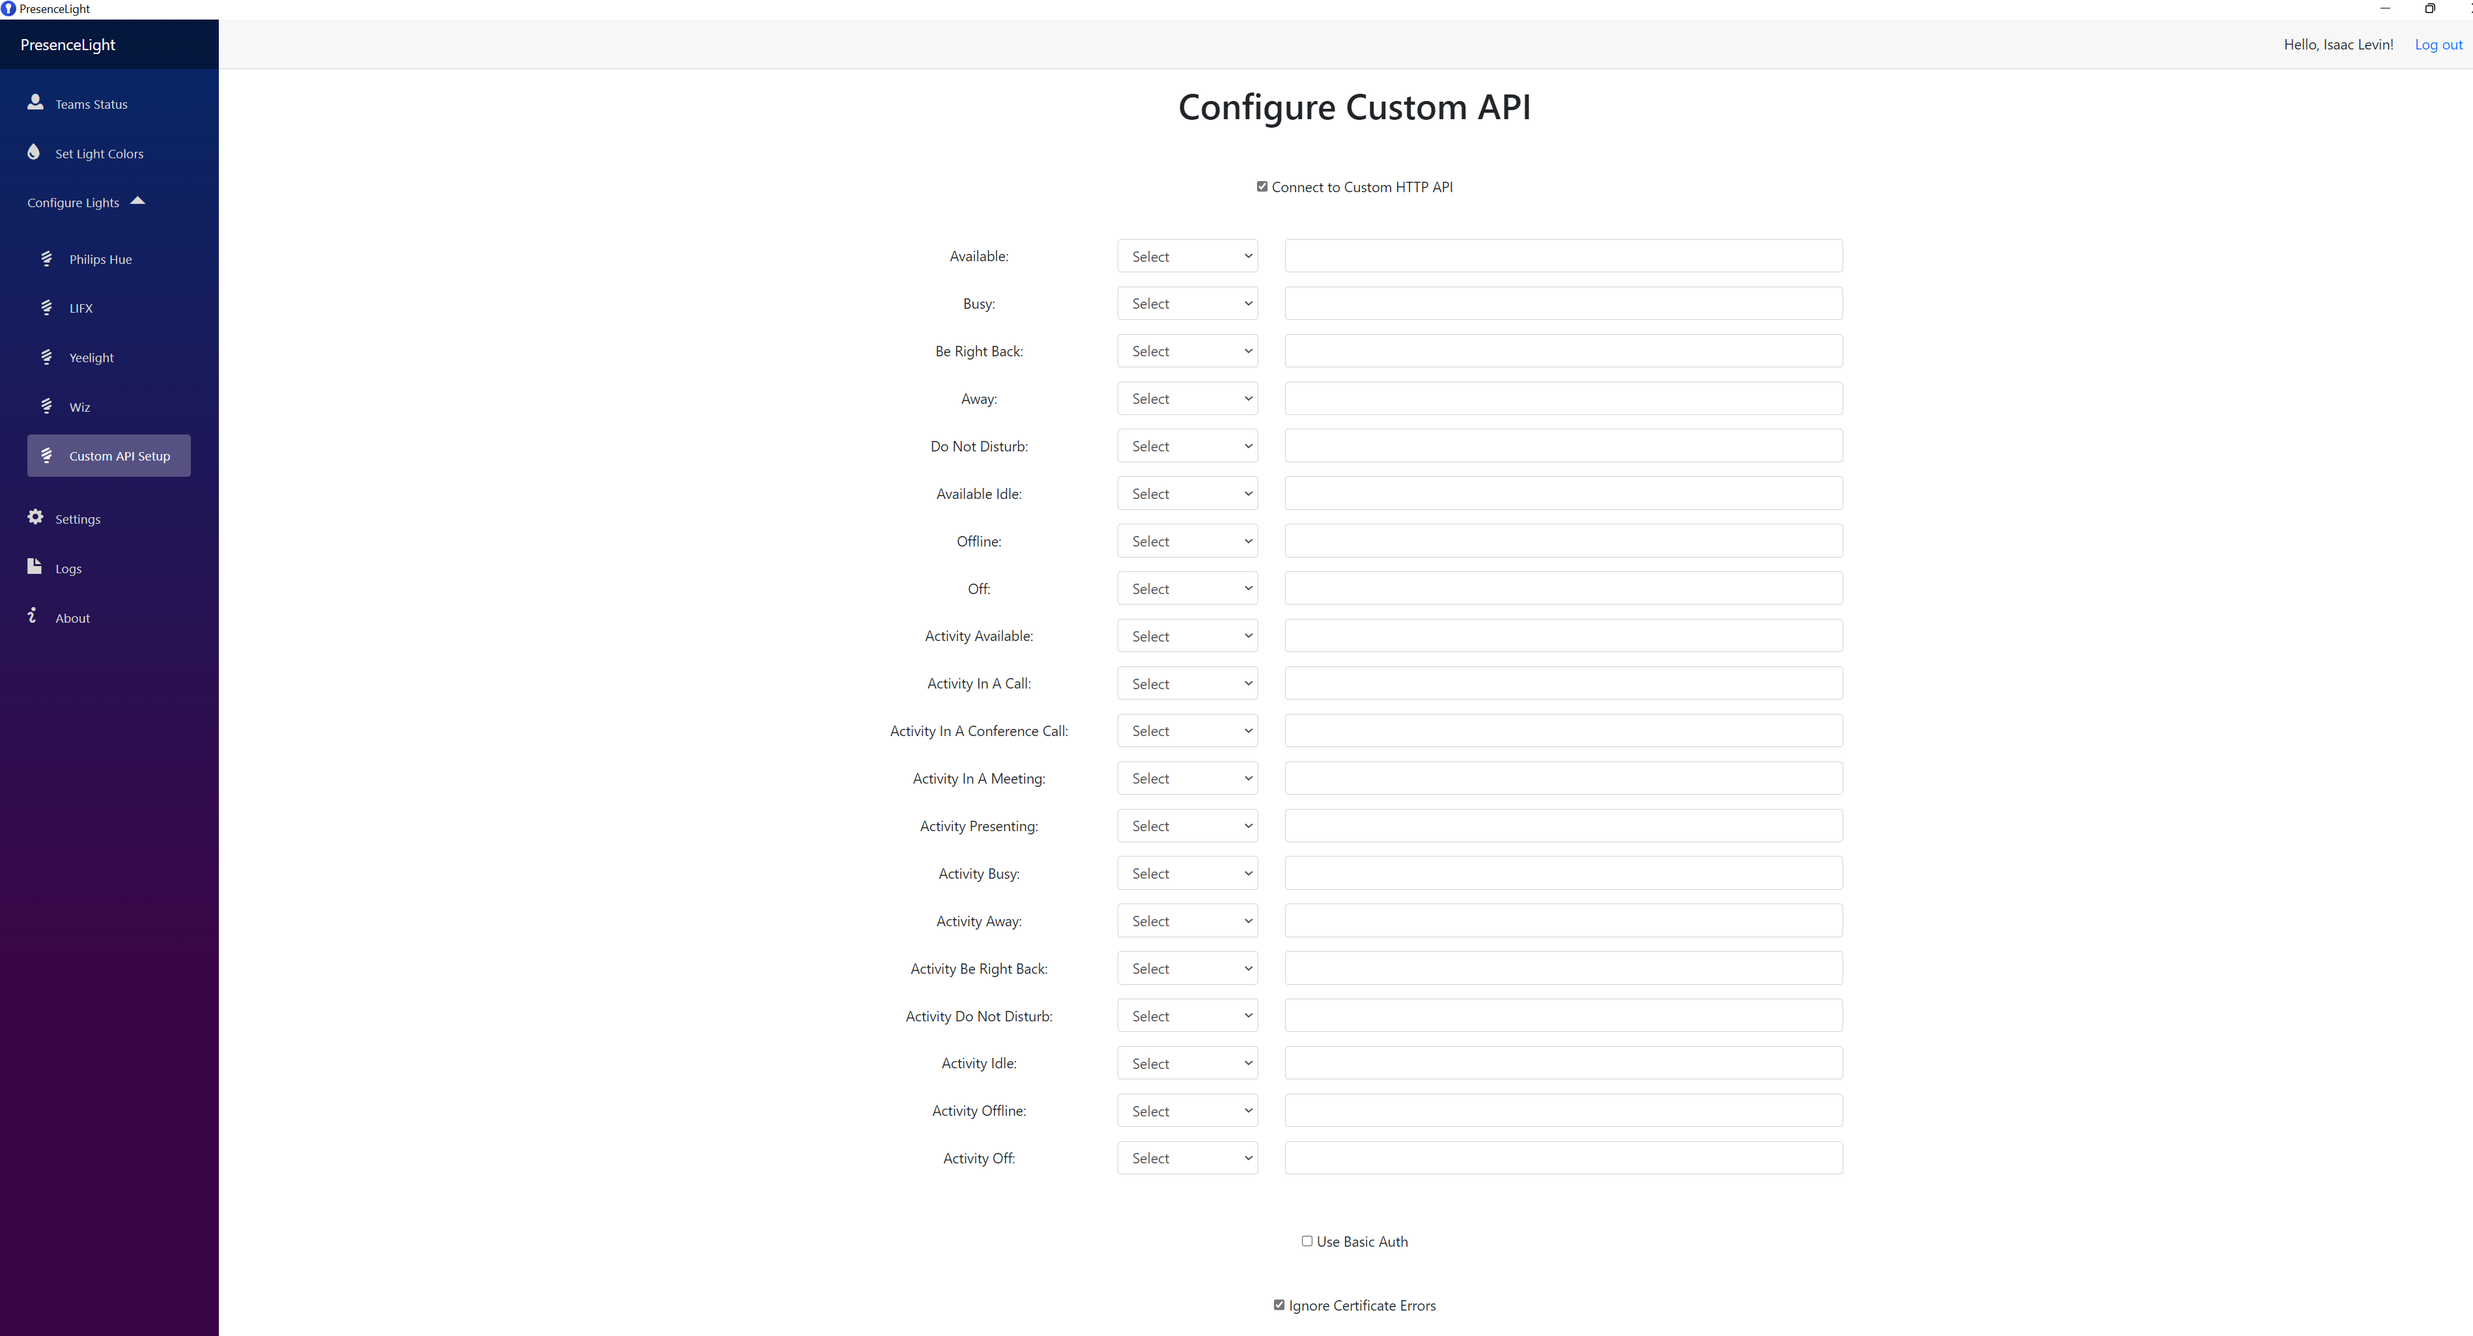
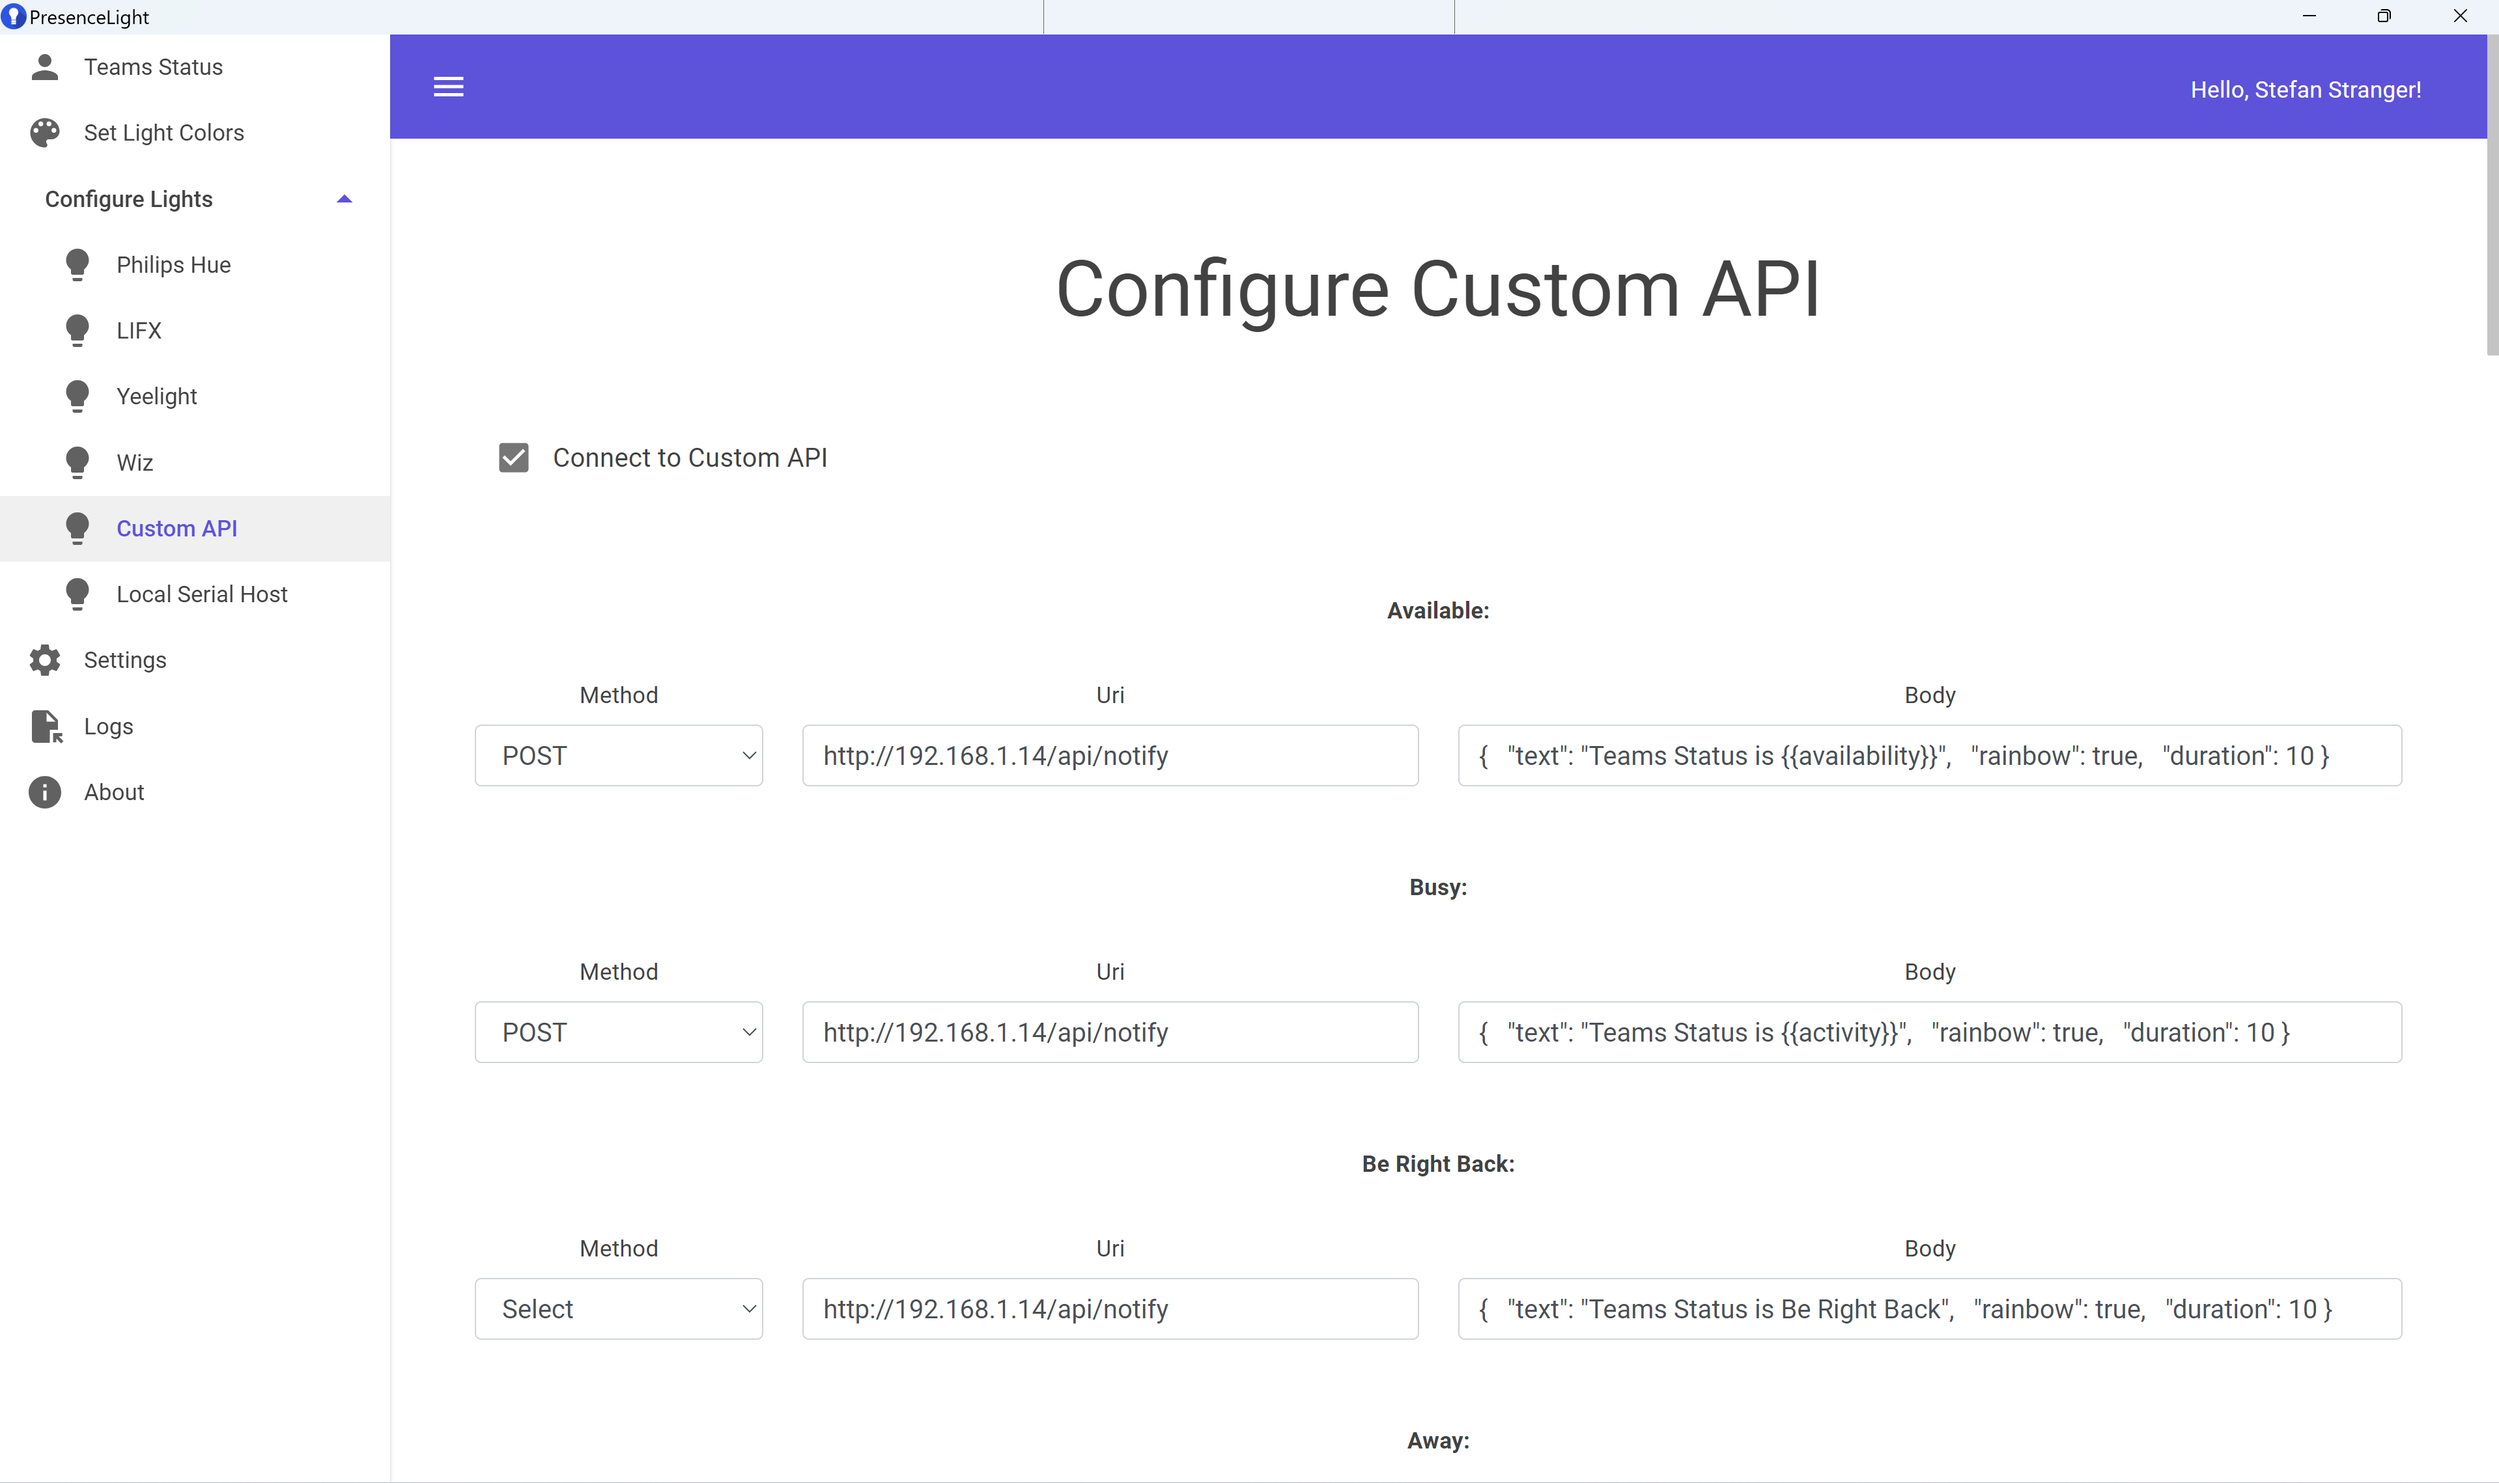
Add Custom API documentation and Home Assistant integration example

diff --git a/docs/configure-custom-api.md b/docs/configure-custom-api.md
@@ -1,3 +1,4 @@
+# Custom API
 
 The Custom API page lets you use any generic service which has a web API which accepts GET or POST requests.
 
@@ -10,4 +11,81 @@ To connect PresenceLight to a custom API:
 Configure the web service (e.g. created the applets in IFTTT)
 Enter the corresponding API method and URI against each presence state.
 
-   ![Configured](../static/customApi.png)
+   ![Configured](../static/CustomAPI.png)   
+  
+The Custom API REST API calls also support providing a json formatted body to the endpoints (Uri) of Custom API.
+
+You can use the following variables in your JSON body:
+
+- {{availability}}
+- {{activity}}
+
+If you use above variables in the JSON body they will be replaced with the availability and/or activity values of your Microsoft Teams status.
+
+## Home Assistant integration
+
+To use PresenceLight with Home Assistant you can use the Custom API functionality as follows:
+
+In Home Assistant you can use [Webhooks triggers](https://www.home-assistant.io/docs/automation/trigger/#webhook-trigger) to trigger an Automation Action, like turning on a light bulb.
+
+Example Automation for turning on a light bulb based on the Teams status send using the Custom API functionality of PresenceLight.
+
+```yaml
+alias: Teams presence - IKEA Light Bulb Living Room
+description: >-
+  Show the Microsoft Teams status via a color of the Light Bulb in the Living
+  Room
+trigger:
+  - platform: webhook
+    allowed_methods:
+      - POST
+    local_only: true
+    webhook_id: "<enter secret webhook id here>"
+condition: []
+action:
+  - choose:
+      - conditions:
+          - condition: template
+            value_template: "{{ trigger.json.presence_status == 'Busy' }}"
+        sequence:
+          - service: light.turn_on
+            metadata: {}
+            data:
+              color_name: red
+            target:
+              entity_id: light.ikea_bulb
+      - conditions:
+          - condition: template
+            value_template: "{{ trigger.json.presence_status == 'Available' }}"
+        sequence:
+          - service: light.turn_on
+            metadata: {}
+            data:
+              color_name: green
+            target:
+              entity_id: light.ikea_bulb
+      - conditions:
+          - condition: template
+            value_template: "{{ trigger.json.presence_status == 'Away' }}"
+        sequence:
+          - service: light.turn_on
+            metadata: {}
+            data:
+              color_name: yellow
+            target:
+              entity_id: light.ikea_bulb
+      - conditions: null
+        sequence:
+          - service: light.turn_off
+            metadata: {}
+            target:
+              entity_id: light.ikea_bulb
+            data: {}
+mode: single
+```
+
+In PresenceLight Custom API setting you need to enter the following information:
+
+| Method | Uri            | Body |
+|--------|----------------|------|
+| POST   | http://homeassistant.local:8123/api/webhook/webhook_id |    {   "presence_status":"Away" }  |
